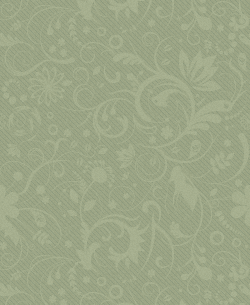
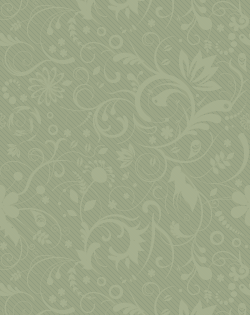
lcb

Changed region(s): [[0.728, 0.9738, 0.756, 1.0]]

diff --git a/Instances/acmvv/frontend/structure.sass b/Instances/acmvv/frontend/structure.sass
@@ -19,7 +19,7 @@ div.wrapper
 
 
 div#header
-  background-image: url('/images/header2.png')
+  background-image: url('/images/header.png')
   height: 300px
   padding-top: 15px
   position: relative
